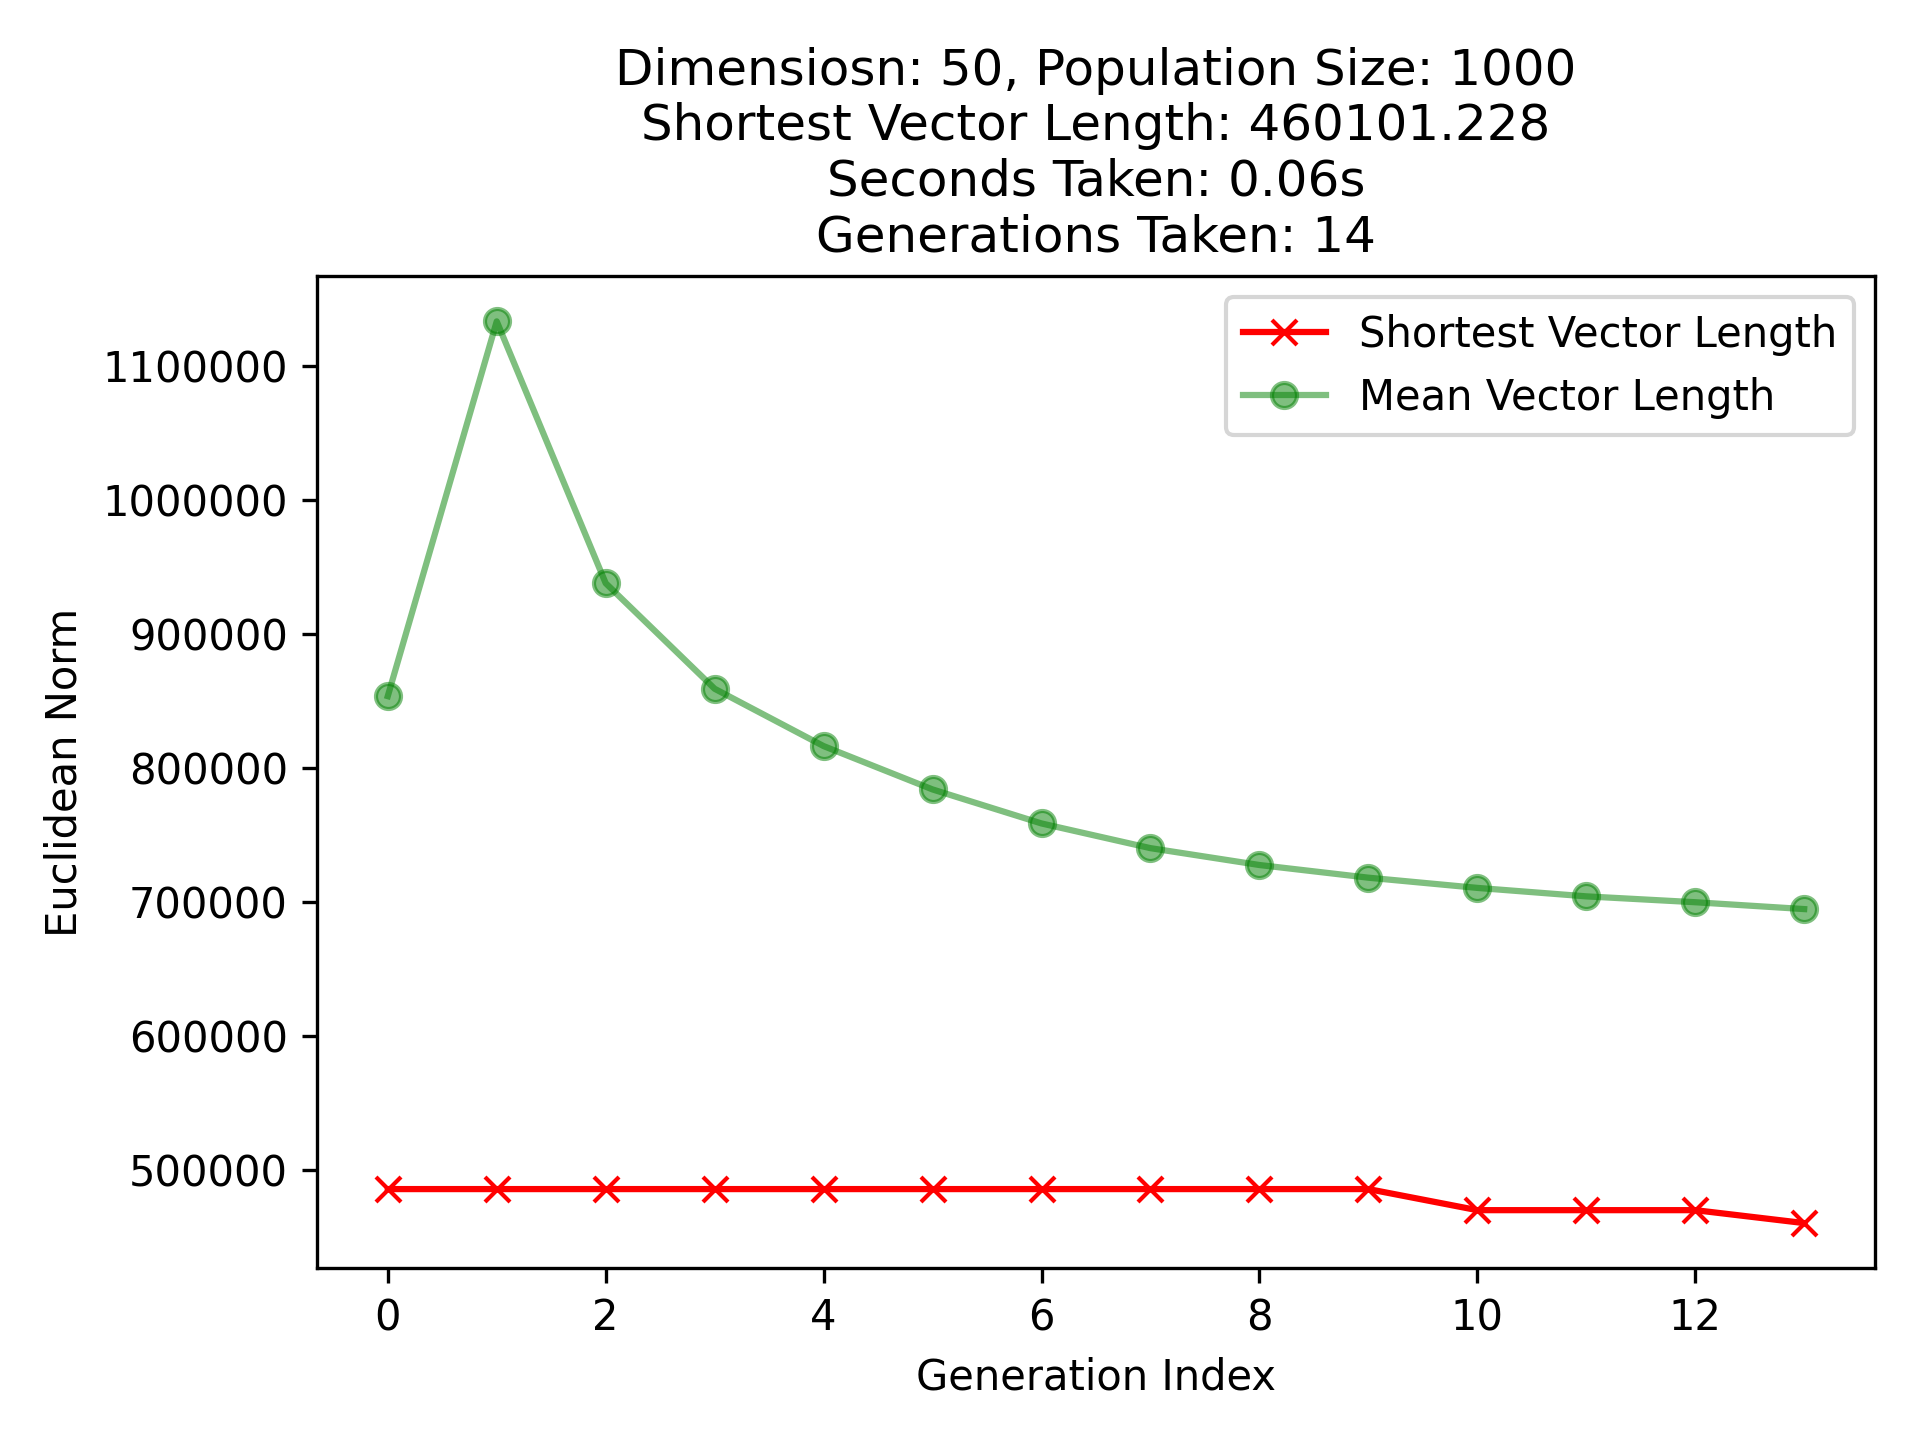
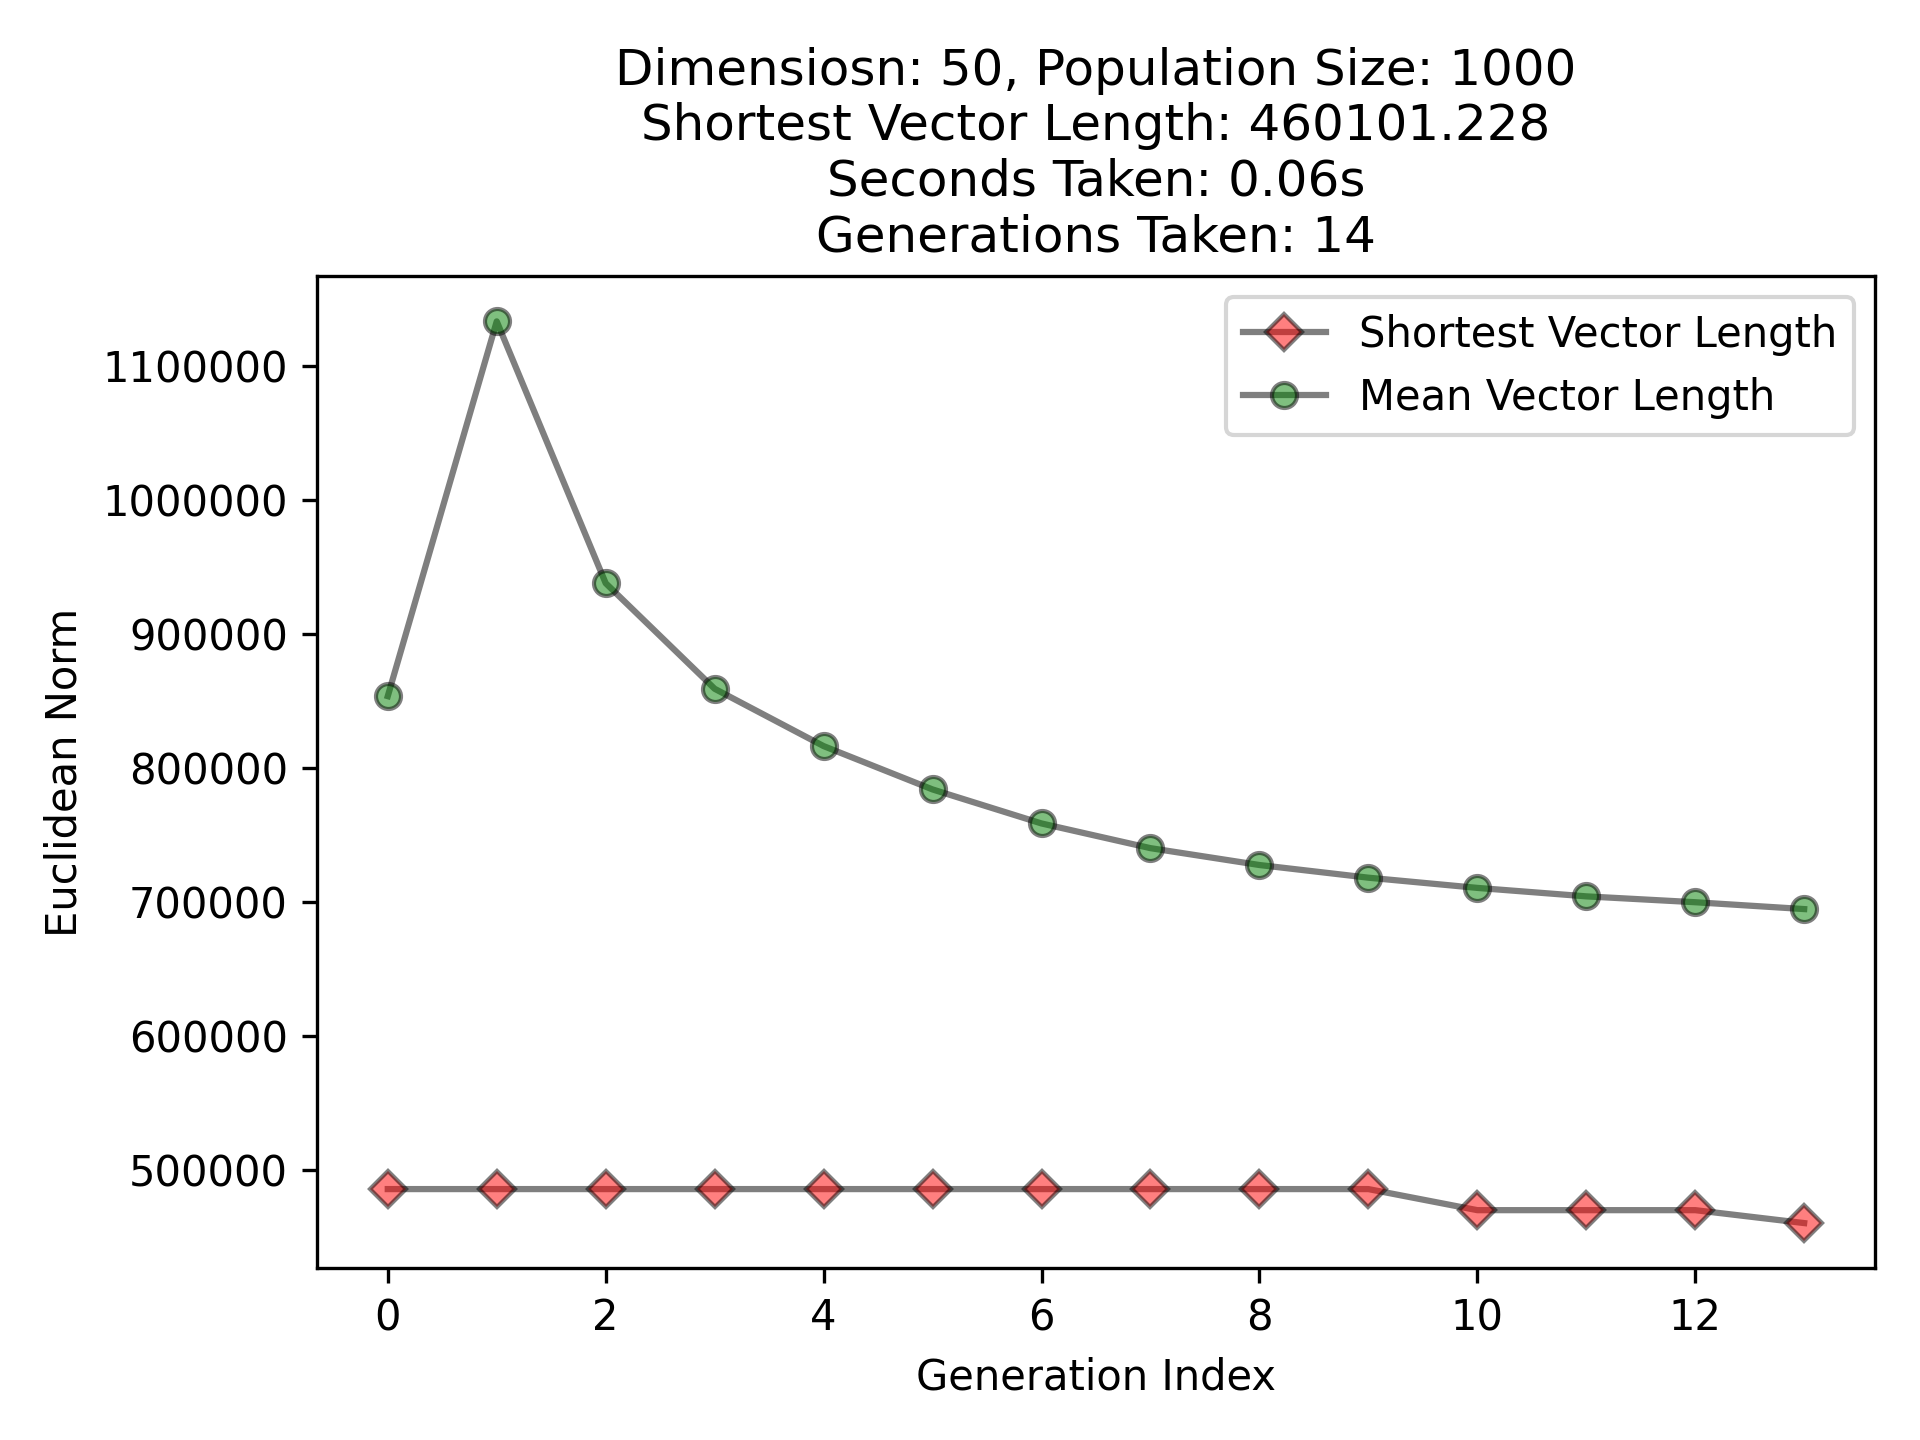
challenge dims 80.

diff --git a/literature/manuscript/plots/intred.py b/literature/manuscript/plots/intred.py
@@ -7,7 +7,8 @@ from matplotlib import pyplot as plt
 #     "paper60_1221209_1113319.txt",
 #     "paper70_2260926_2071820.txt",
 #     "paper80_3643144_3351770.txt",
-#     "paper90_6028468_5564035.txt"
+#     "paper90_6028468_5564035.txt",
+#     "paper100_9012027_8339504.txt"
 # ]
 
 files = [
@@ -20,7 +21,7 @@ files = [
     # "col100_2667.txt"
 ]
 
-# lim = {40: 9, 50: 13, 60: 13, 70: 18, 80: 17, 90: 18, 100: -1}  # paper
+# lim = {40: 9, 50: 13, 60: 13, 70: 18, 80: 17, 90: 18, 100: 12}  # paper
 lim = {40: 8, 50: 9, 60: 17, 70: 17, 80: 18, 90: -1, 100: -1}  # challenge
 prefix = "../data/"
 
@@ -51,10 +52,10 @@ for name in files:
     plt.title(title)
     plt.xlabel('Generation Index')
     plt.ylabel('Euclidean Norm')
-    plt.plot(bests, 'rx-', label='Shortest Vector Length')
-    plt.plot(means, 'go-', alpha=0.5, label='Mean Vector Length')
+    plt.plot(bests, 'kD-', mfc='red', mec='k', alpha=0.5, label='Shortest Vector Length')
+    plt.plot(means, 'ko-', mfc='green', mec='k', alpha=0.5, label='Mean Vector Length')
     plt.ticklabel_format(axis='both', style='plain')
     plt.tight_layout()
     plt.legend()
-    # plt.savefig(f'../media/paper{d}.png')
+    # plt.savefig(f'../media/col{d}.png')  # change this when you change problem sets
     plt.show()

diff --git a/code/experiment/problems.h b/code/experiment/problems.h
@@ -10,16 +10,16 @@
 
 // #define DIM 40
 // #define PATH "../../saved/challenge/col40_1740.csv"
-// #define PATH "../../saved/personal/col40_237413_212828.csv"
-// #define PATH "../../saved/personal/col40_237413_212828.hermite.csv"
-// #define PATH "../../saved/personal/exp40_4196653682643_3762083877372.hermite.csv"
-
+// #define DIM 50
+// #define PATH "../../saved/challenge/col50_1929.csv"
 // #define DIM 60
 // #define PATH "../../saved/challenge/col60_2101.csv"
-
 // #define DIM 70
 // #define PATH "../../saved/challenge/col70_2254.csv"
-
+#define DIM 80
+#define PATH "../../saved/challenge/col80_2397.csv"
+// #define DIM 90
+// #define PATH "../../saved/challenge/col90_2544.csv"
 // #define DIM 100
 // #define PATH "../../saved/challenge/col100_2667.csv"
 
@@ -37,8 +37,8 @@
 // #define PATH "../../saved/paper/paper80_3643144_3351770.csv"
 // #define DIM 90
 // #define PATH "../../saved/paper/paper90_6028468_5564035.csv"
-#define DIM 100
-#define PATH "../../saved/paper/paper100_9012027_8339504.csv"
+// #define DIM 100
+// #define PATH "../../saved/paper/paper100_9012027_8339504.csv"
 // #define DIM 110
 // #define PATH "../../saved/paper/paper110_13217658_12258022.csv"
 // #define DIM 120

diff --git a/code/experiment/sieve.c b/code/experiment/sieve.c
@@ -33,7 +33,7 @@ int main(int argc, char *argv[]) {
 
     best = norms1[order1[0]];
     last_mean = mean();
-  } while (unchanged < 10);
+  } while (unchanged < 5);
 
   printf("\nTotal time: %fs\n\n", seconds() - beg);
   print_vector(P1[order1[0]], DIM, NULL);
@@ -87,19 +87,22 @@ void set_scales(void) {
   SCALES[6] = 25;
 
   // Challenge Lattices
-  // SCALES[40] = 25;
-  // SCALES[60] = 165;
-  // SCALES[70] = 714;
-  // SCALES[100] = 10000;
-
-  // Paper Lattices
-  SCALES[40] = 20;
-  SCALES[50] = 20;
-  SCALES[60] = 40;
-  SCALES[70] = 300;
-  SCALES[80] = 2000;
+  SCALES[40] = 25;
+  SCALES[50] = 25;
+  SCALES[60] = 165;
+  SCALES[70] = 714;
+  SCALES[80] = 3000;
   SCALES[90] = 5000;
   SCALES[100] = 6000;
+
+  // Paper Lattices
+  // SCALES[40] = 20;
+  // SCALES[50] = 20;
+  // SCALES[60] = 40;
+  // SCALES[70] = 300;
+  // SCALES[80] = 2000;
+  // SCALES[90] = 5000;
+  // SCALES[100] = 6000;
 
   printf("Size: %d\nInflated Size: %d\n\n", SIZE, INFLATED);
 }

diff --git a/code/experiment/sieve.h b/code/experiment/sieve.h
@@ -19,7 +19,7 @@
 #include "problems.h"
 
 #define SEED 0
-#define THREADS 70
+#define THREADS 200
 #define DENSITY 0.01
 #define ETA 0.01 // inflation factor
 #define num double
